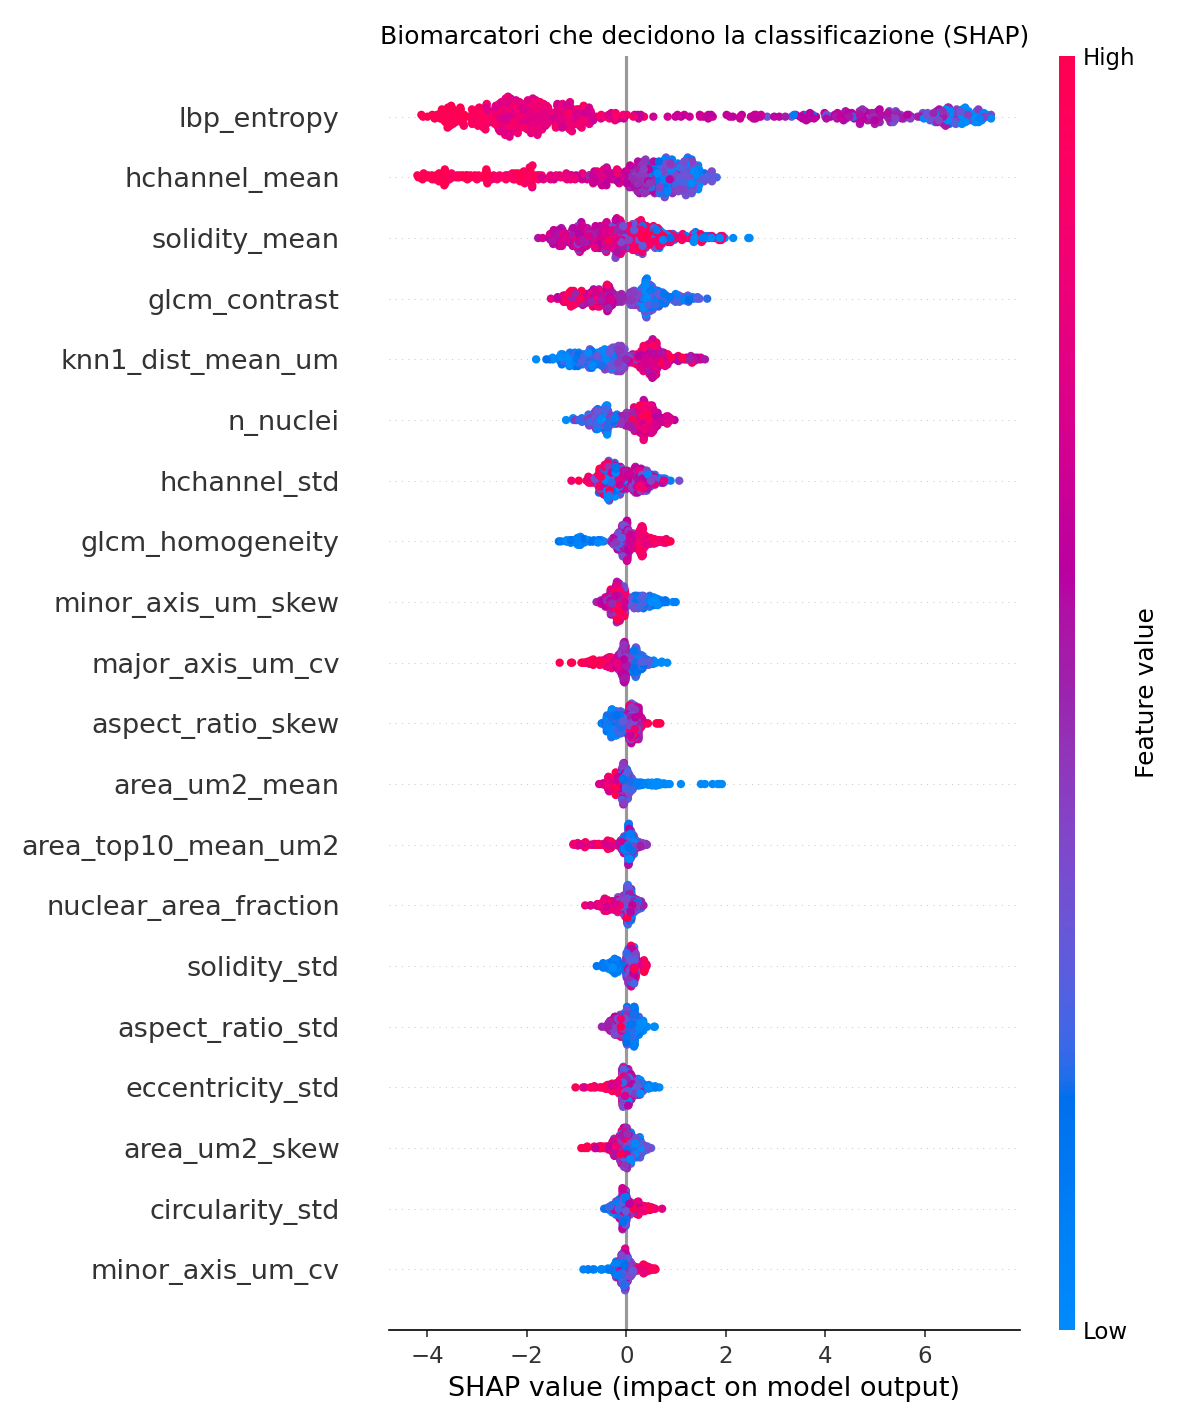
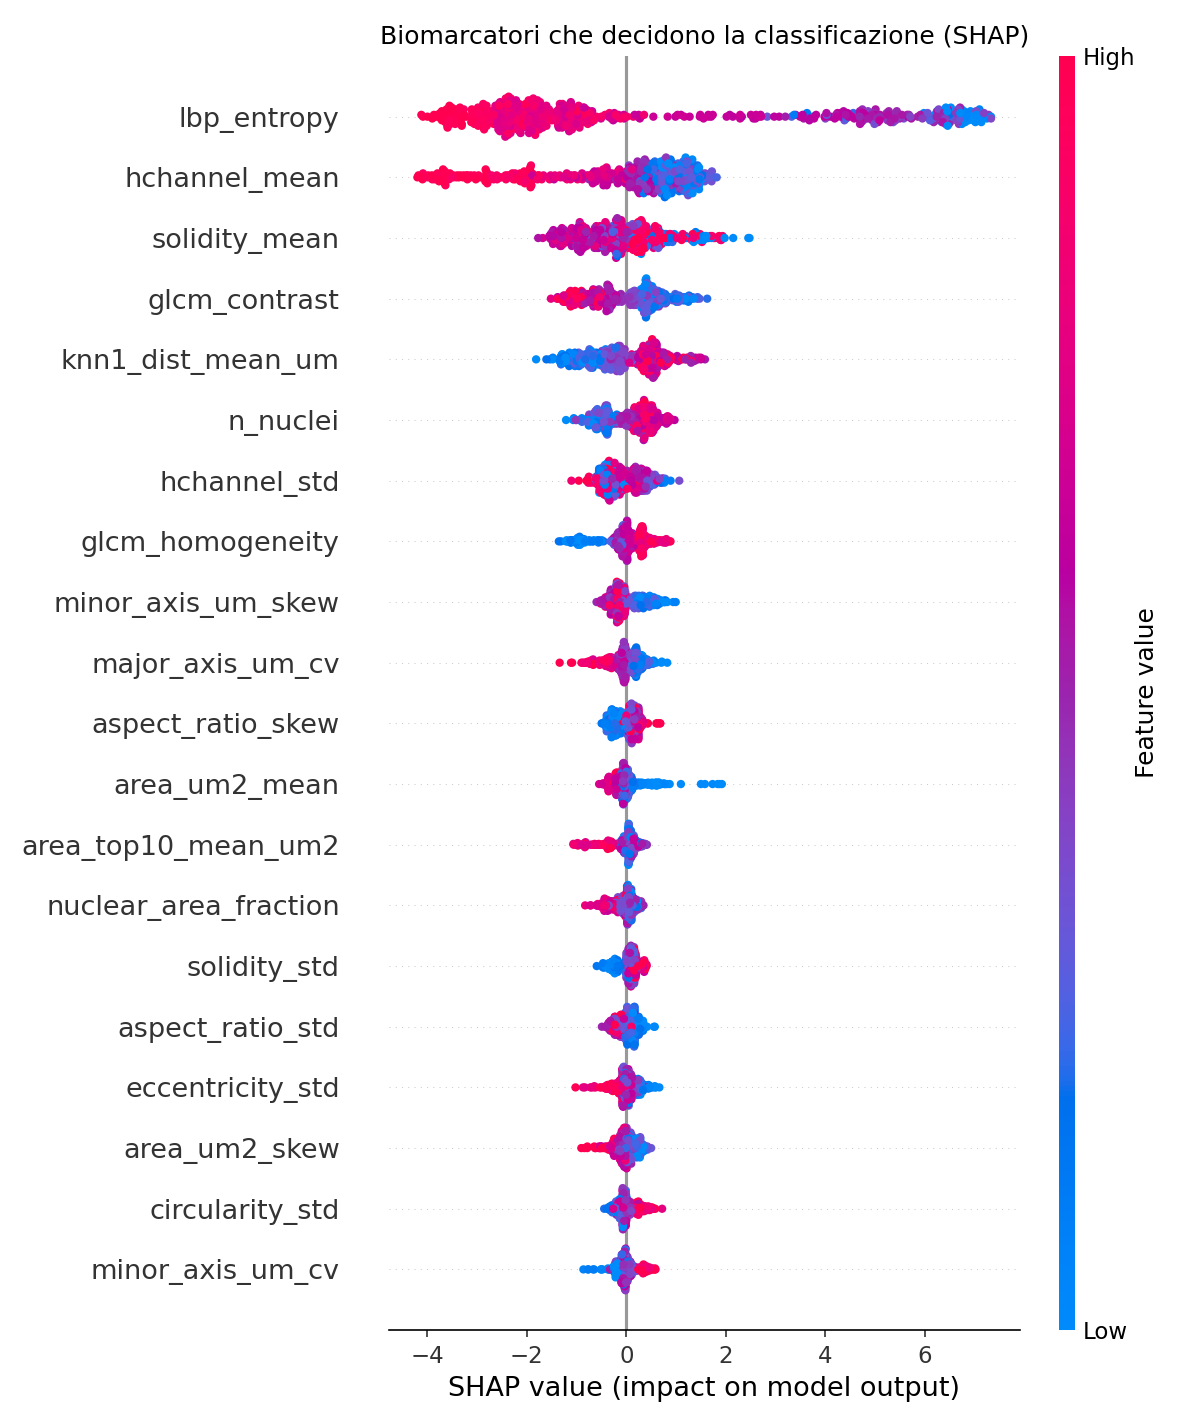
docs(reports): allineamento metriche Dice v4 (0.795), affinamento calibrazione e note SHAP

Changed region(s): [[0.4625, 0.0926, 0.5858, 0.9263], [0.6783, 0.0618, 0.8325, 0.0926], [0.4008, 0.0618, 0.5242, 0.1235]]

diff --git a/src/calibration.py b/src/calibration.py
@@ -33,8 +33,12 @@ la possono validare:
     letteratura per il tessuto linfoide (10.000-20.000/mm2). Con la
     calibrazione precedente risultava ~58.000/mm2, fisicamente impossibile.
   - Diametro nucleare medio: risulta ~4.96 um misurato, che corretto per la
-    sotto-copertura del Watershed (Dice 0.637 rispetto alla Ground Truth)
-    porta a ~6.2 um, valore atteso per un nucleo linfocitario.
+    sotto-copertura del Watershed (Dice 0.795 rispetto alla Ground Truth)
+    porta a ~5.6 um, appena sotto l'intervallo 6-12 um atteso per un nucleo
+    linfocitario. La correzione 1/sqrt(Dice) e' pero' approssimativa — il Dice
+    non e' la frazione di area coperta e la segmentazione produce anche falsi
+    positivi — quindi questo controllo e' corroborativo: quello che discrimina
+    fra le calibrazioni candidate e' la densita' nucleare.
 
 AVVERTENZA
 ----------

diff --git a/src/02_segmentation.py b/src/02_segmentation.py
@@ -147,8 +147,8 @@ def segment_nuclei_watershed(
 
       "relative_threshold" (DEFAULT, v3.0/v4.0/v4.2): soglia globale
         `distance.max() * peak_threshold_rel`. È il metodo validato contro la
-        Ground Truth indipendente Cellpose v4.x (Dice 0.6373, AJI 0.3097,
-        F1 0.4101 su n=10 patch) e il migliore dei due su questo dataset.
+        Ground Truth indipendente Cellpose v4.x (Dice 0.7950, AJI 0.5411,
+        F1 0.7108 su n=10 patch) e il migliore dei due su questo dataset.
 
       "h_maxima" (v4.1, NON default): trasformata h-maxima (Vincent, 1993)
         applicata alla distance map. Il parametro h_maxima_px è una soglia di

diff --git a/reports/fase3_report.md b/reports/fase3_report.md
@@ -411,9 +411,12 @@ un valore fisicamente impossibile. A 0.847 um/px risulta 4.282 nuclei/mm2, tropp
 per un centro germinativo. A **0.46 um/px** risulta 14.505 nuclei/mm2, in pieno intervallo
 di letteratura.
 
-Il diametro conferma: a 0.46 um/px la misura e 4.96 um, che corretta per la sotto-copertura
-del Watershed (Dice 0.637 rispetto alla Ground Truth, quindi il diametro reale e circa
-1/sqrt(0.637) volte quello misurato) porta a **~6.2 um**, valore atteso per un linfocita.
+Il diametro e coerente ma meno stringente: a 0.46 um/px la misura e 4.96 um, che corretta
+per la sotto-copertura del Watershed (Dice 0.795 rispetto alla Ground Truth, quindi il
+diametro reale e circa 1/sqrt(0.795) volte quello misurato) porta a **~5.6 um**, appena
+sotto l'intervallo atteso per un linfocita. La correzione e approssimativa: il Dice non e
+la frazione di area coperta e la segmentazione produce anche falsi positivi. L'evidenza
+che discrimina fra le calibrazioni candidate resta quella sulla densita nucleare.
 
 **Valore adottato: 0.46 um/px**, esattamente il doppio del precedente.
 Resta una deduzione, non un dato dichiarato: gli autori non pubblicano la scala. Le due
@@ -459,14 +462,16 @@ biomarcatori risultanti sono ora compatibili con la letteratura:
 | Grandezza | Prima (0.23 um/px) | Dopo (0.46 um/px) | Atteso |
 |---|---|---|---|
 | Diametro nucleare equivalente medio | 2,48 um | **5,32 um** | 6-12 um (misura non corretta per la sotto-copertura) |
-| Diametro corretto per Dice 0,637 | 3,11 um | **6,67 um** | 6-12 um |
+| Diametro corretto per Dice 0,795 | 2,78 um | **5,97 um** | 6-12 um (correzione approssimativa) |
 | Densita nucleare (FL / REACTIVE) | ~58.000 /mm2 | **14.049 / 15.476 /mm2** | 10.000-20.000 /mm2 |
 | Lato del campo visivo | 51,5 um | **103,0 um** | — |
 | Frazione di area nucleare | 0,313 | 0,313 (invariata) | fisiologica |
 
-Il diametro corretto per la sotto-copertura del Watershed (6,67 um) e la densita nucleare
-di entrambe le classi cadono ora dentro gli intervalli di letteratura, mentre con la
-calibrazione precedente erano rispettivamente troppo piccolo e fisicamente impossibile.
+La densita nucleare di entrambe le classi cade ora dentro l'intervallo di letteratura,
+mentre con la calibrazione precedente era fisicamente impossibile. Il diametro corretto
+per la sotto-copertura del Watershed (5,97 um) si colloca appena sotto l'intervallo
+atteso: la correzione 1/sqrt(Dice) e un'approssimazione grossolana, e l'evidenza che
+discrimina fra le calibrazioni candidate resta la densita nucleare.
 La frazione di area nucleare, che non dipende dalla calibrazione, e ovviamente invariata:
 serve da controllo che la correzione non abbia alterato i dati sottostanti.
 

diff --git a/reports/fase3_implementation_plan.md b/reports/fase3_implementation_plan.md
@@ -868,7 +868,7 @@ Misurando le distanze k-NN su dati reali è emerso che il diametro nucleare medi
 
 **Verifica sulla fonte primaria eseguita il 19 agosto 2026.** Carreras et al. (2025) dichiarano che le patch sono state esportate da NDP.view2 a **200× e 150 dpi**, e non menzionano mai un obiettivo 40×. Il valore 0.23 µm/px corrisponde invece all'obiettivo 40× (= 400× totali) del NanoZoomer S360. Nella notazione istopatologica 200× equivale all'**obiettivo 20×**, cioè **0.46 µm/px**. Né l'articolo né il record Zenodo pubblicano una scala esplicita.
 
-Due controlli indipendenti convergono su 0.46 µm/px: la densità nucleare diventa 14.505/mm² (letteratura: 10.000–20.000/mm² per tessuto linfoide; a 0.23 µm/px sarebbe 58.019/mm², impossibile), e il diametro nucleare corretto per la sotto-copertura del Watershed diventa ~6.2 µm (atteso per un linfocita).
+Il controllo che discrimina è la **densità nucleare**, che a 0.46 µm/px diventa 14.505/mm² (letteratura: 10.000–20.000/mm² per tessuto linfoide; a 0.23 µm/px sarebbe 58.019/mm², impossibile). Il diametro nucleare corretto per la sotto-copertura del Watershed è coerente ma meno stringente: con il Dice definitivo di 0.795 risulta ~5.6 µm, appena sotto l'intervallo 6–12 µm atteso per un linfocita. La correzione 1/sqrt(Dice) è del resto approssimativa — il Dice non è la frazione di area coperta e la segmentazione produce anche falsi positivi — quindi non va usata come verifica indipendente sullo stesso piano della densità.
 
 **Non blocca la Fase 3:** un fattore di scala globale non altera ordinamenti, test di separabilità né modelli ad albero. Invaliderebbe però l'interpretazione clinica assoluta e il confronto con le soglie di Iwamoto et al. (2024). La correzione è: lunghezze ×2, aree ×4, densità /4 — richiede solo di cambiare `MICRONS_PER_PIXEL` e rigenerare i CSV, non di rifare la segmentazione.
 

diff --git a/reports/fase4_report.md b/reports/fase4_report.md
@@ -175,6 +175,8 @@ Le medie sono quasi identiche — ed è tutto ciò che un test di Mann-Whitney c
 
 È esattamente ciò che mostra il profilo SHAP per quintili ($+0.52$, $-0.64$, $-0.83$, $-0.15$, $+0.56$): una **forma a U**, con valori estremi in *entrambe* le direzioni che spingono verso il linfoma. Un effetto di questo tipo è invisibile a un confronto fra tendenze centrali.
 
+**La forma a U è leggibile anche nella figura riassuntiva** (`img/fase4/shap_summary.png`): nella riga di `solidity_mean` i punti ad alto valore compaiono su *entrambi* i lati dello zero, mentre in `lbp_entropy` e `hchannel_mean` valori alti e valori bassi si separano nettamente ai due lati. È un indizio visivo e non una misura — l'evidenza quantitativa resta il profilo per quintili — ma rende quella figura utilizzabile in tesi per **mostrare** l'effetto di dispersione, e non soltanto per ordinare le importanze.
+
 Non è sovradattamento: l'importanza permutazionale **fuori-piega** la colloca al 4° posto ($+0.0137$ di AUC) e la magnitudine SHAP fuori-piega ($0.632$) coincide con quella in-sample ($0.656$).
 
 **Interpretazione clinica:** il pleomorfismo nucleare — l'eterogeneità di forma — è un tratto classico del linfoma. Il modello multivariato ha rilevato un effetto di *dispersione* che l'analisi univariata della Fase 3, costruita sul confronto fra medie, non poteva vedere. È un argomento a favore dell'approccio, non un'incoerenza.

diff --git a/reports/fase1_report.md b/reports/fase1_report.md
@@ -112,8 +112,11 @@ grandezza ben documentata per il tessuto linfoide (**10.000–20.000 nuclei/mm²
 | 0.847 µm/px (lettura alternativa) | 4.282 /mm² | troppo rado per un centro germinativo |
 
 Solo un valore regge, ed è lo stesso a cui porta la lettura dell'articolo. Il diametro
-conferma: 4,96 µm misurati che, corretti per la sotto-copertura del Watershed
-(Dice 0,637 rispetto alla Ground Truth), portano a **≈6,2 µm**.
+è coerente ma meno stringente: 4,96 µm misurati che, corretti per la sotto-copertura del
+Watershed (Dice 0,795 rispetto alla Ground Truth), portano a **≈5,6 µm**, appena sotto
+l'intervallo atteso per un linfocita. La correzione è però approssimativa — il Dice non è
+la frazione di area coperta e la segmentazione produce anche falsi positivi — quindi
+l'evidenza che discrimina fra le calibrazioni candidate resta la densità nucleare.
 
 ### 7. Cosa resta incerto
 
